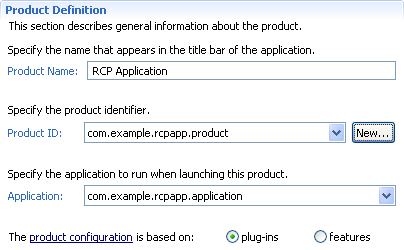
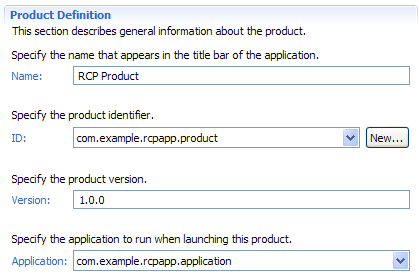
product overview page is done

diff --git a/bundles/org.eclipse.pde.doc.user/guide/tools/editors/product_editor/overview.htm b/bundles/org.eclipse.pde.doc.user/guide/tools/editors/product_editor/overview.htm
@@ -24,10 +24,11 @@
 <p>The <strong>Overview</strong> page defines the product and provides hot links to test and export it. </p>
 <p>&nbsp;</p>
 <p class="style2">Product Definition</p>
-<p>A product is an <em>org.eclipse.core.runtime.products</em> extension. At minimum, it must have a <strong>name</strong>, an <strong>ID</strong> and an <strong>application</strong>. </p>
+<p>A product is an <em>org.eclipse.core.runtime.products</em> extension. At minimum, it must have a <strong>name</strong>, an <strong>ID</strong>, a <strong>version</strong> and an <strong>application</strong>. </p>
 <p><img src="../../../images/product_editor/overview_definition.png" alt="Product Definition" hspace="30"> </p>
 <p>The <strong>product name</strong> is a translatable string that appears in the title bar of the application. It is defined as a property in the <em>org.eclipse.core.runtime.products</em> extension.</p>
 <p>The <strong>product identifier</strong> combo box is populated with the identifiers of all product extensions defined in the workspace and the target. You can select one of the defined products, or you can create a new product definition on the fly using the <strong>New...</strong> button.</p>
+<p>The <strong>product version</strong> is a string that is used to version your product file.</p>
 <p>A product must be associated with an <strong>application</strong>, which acts as the main entry point when the product is launched. An application is an <em>org.eclipse.core.runtime.applications</em> extension. The <strong>application</strong> combo box is populated with the identifiers of all application extensions defined in the workspace and the target.</p>
 <p>A product configuration can be <strong>plugin-based</strong> or <strong>feature-based</strong>. A plugin-based configuration is the default because it is simple and does not force you to understand <em>Update Manager</em>-specific concepts like features before building a product. A feature-based configuration is more powerful though, since it enables you to deliver a product that is <strong><em>updatable</em></strong>. That is, you can later publish patches or upgrades to your product on an update site and have your customers use the Eclipse <em>Update Manager</em> to download and install these updates. </p>
 <p>&nbsp;</p>
@@ -42,7 +43,7 @@
 <p>To export an Eclipse product, you can invoke the <a href="../../export_wizards/export_product.htm">Eclipse Product Export</a> wizard via the hot link in the <strong>Exporting</strong> section. </p>
 <p><img src="../../../images/product_editor/overview_exporting.png" alt="Product Exporting" hspace="30"></p>
 <p>To export a single product configuration to multiple platforms, you need to have the RCP delta pack installed. It is available for download from the same place as the Eclipse SDK. The RCP delta pack contains all the different platform-specific fragments needed for all supported platforms. </p>
-<p>Once the RCP delta pack is in the target platform, PDE detects the presence of the <em>org.eclipse.platform.launchers</em> feature and enables the cross-platform export mode.</p>
+<p>Once the RCP delta pack is in the target platform, PDE detects the presence of the <em>org.eclipse.equinox.launchers</em> feature and enables the cross-platform export mode.</p>
 <p>&nbsp; </p>
 <p>&nbsp;</p>
 </body>
